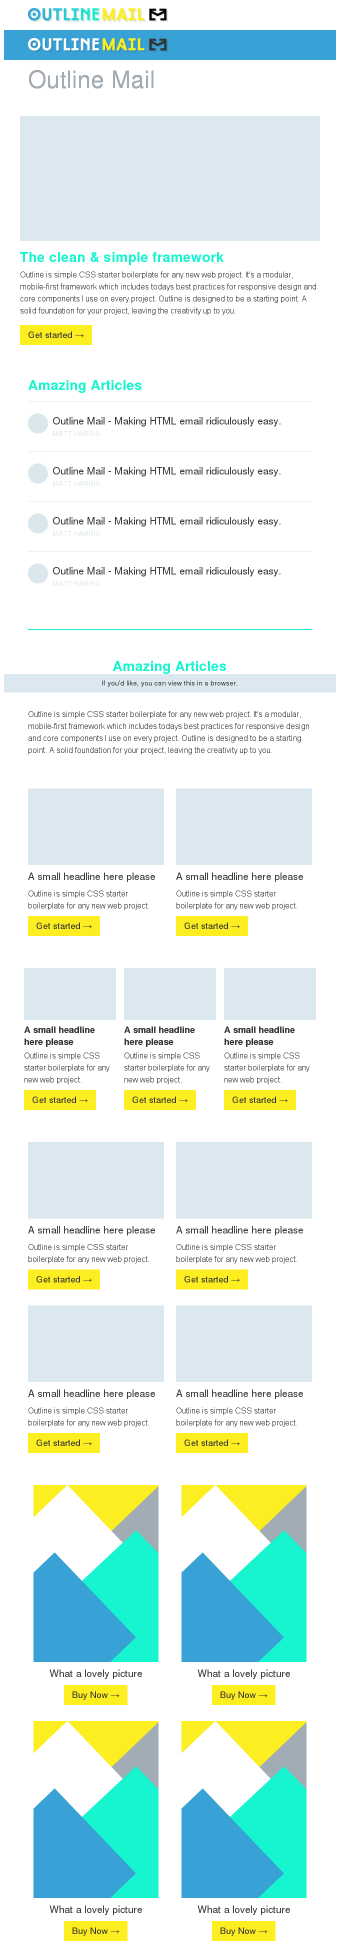
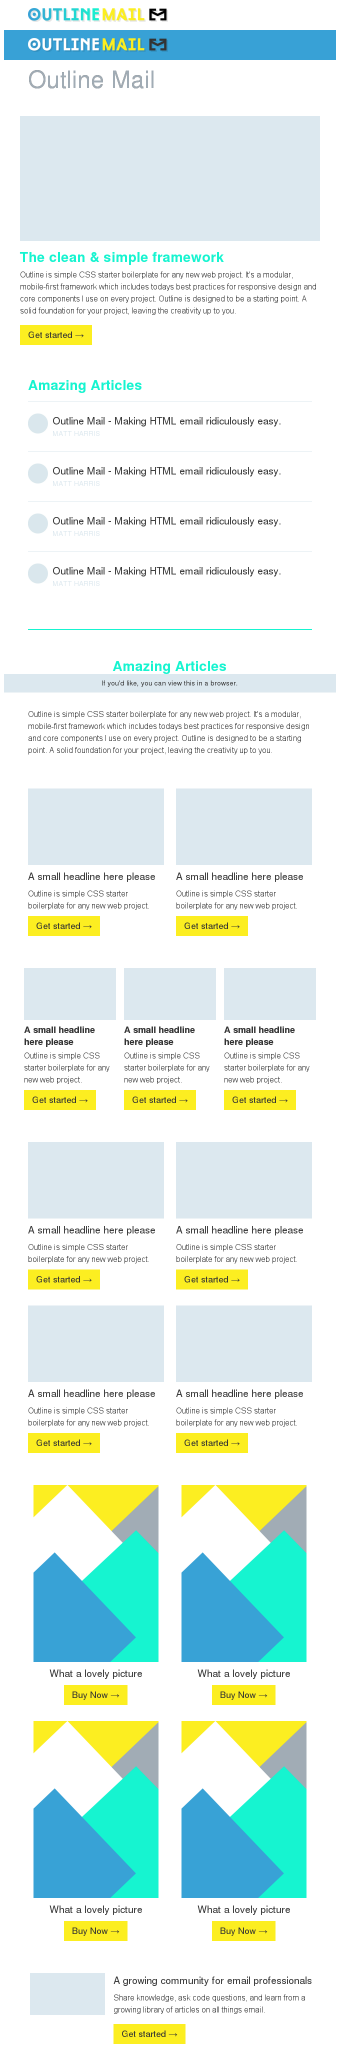
Article block

diff --git a/templates/outline/template-outline.html b/templates/outline/template-outline.html
@@ -47,13 +47,14 @@
             oneUpTextBlock col1 {label:Column 1; properties: text;}
             oneUpTextBlock {label: One column text; properties: col1;}
             twoUpTextBlock col1, twoUpTextBlock col2 {label: Column; properties: title text image button;}
-            twoUpTextBlock {label: One column text; properties: col1 col2 showTitle=true showImages=true showButtons=true align=left;}
+            twoUpTextBlock {label: Two column text; properties: col1 col2 showTitle=true showImages=true showButtons=true align=left;}
             threeUpTextBlock col1, threeUpTextBlock col2, threeUpTextBlock col3 {label: Column; properties: title text image button;}
-            threeUpTextBlock {label: One column text; properties: col1 col2 col3 showTitle=true showImages=true showButtons=true align=left;}
+            threeUpTextBlock {label: Three column text; properties: col1 col2 col3 showTitle=true showImages=true showButtons=true align=left;}
             fourUpTextBlock col1, fourUpTextBlock col2, fourUpTextBlock col3, fourUpTextBlock col4 {label: Column; properties: title text image button;}
-            fourUpTextBlock {label: One column text; properties: col1 col2 col3 col4 showTitle=true showImages=true showButtons=true align=left;}
+            fourUpTextBlock {label: Four column text; properties: col1 col2 col3 col4 showTitle=true showImages=true showButtons=true align=left;}
             galleryFourUpBlock col1, galleryFourUpBlock col2, galleryFourUpBlock col3, galleryFourUpBlock col4 {label: Column; properties: title image button;}
-            galleryFourUpBlock {label: One column text; properties: col1 col2 col3 col4 showButtons=true;}
+            galleryFourUpBlock {label: Four column text; properties: col1 col2 col3 col4 showButtons=true;}
+            articleBlock {label: One column text; properties: showButtons=true;}
         }
     </style>
 </head>
@@ -1115,7 +1116,78 @@
 </table>
 <!-- /Gallery four up centre -->
 
-
+<!-- Article -->
+<table border="0" cellpadding="0" cellspacing="0" width="100%" data-ko-block="articleBlock">
+  <tr>
+    <td style="padding: 32px 0 0 0;" bgcolor="#ffffff" align="center">
+      <table class="content-table" align="center" border="0" cellpadding="0" cellspacing="0" width="600">
+        <tr>
+          <td style="padding: 0 16px 0 16px;" align="center" valign="top">
+            <!-- Two column -->
+            <table border="0" cellpadding="0" cellspacing="0" width="100%">
+              <tr>
+                <td>
+                  <!-- content left -->
+                  <table class="content-table" border="0" cellpadding="0" cellspacing="0" width="28%" align="left">
+                    <tr>
+                      <td align="center" valign="top">
+                        <a style="-ko-attr-href: @button.url;" target="_blank">
+                          <img data-ko-editable="image.src" style="display: block; padding: 0 0 8px 0; font-family: Helvetica, Arial, sans-serif; color: #333333; font-size: 14px; width: 150px; height: 84px;" class="img-max" src="http://outlinemail.co.uk/img/16x9-img-placeholder.png" alt="Outline Mail" width="150" height="84" border="0">
+                        </a>
+                      </td>
+                    </tr>
+                  </table>
+                  <!-- /content left -->
+                  <!-- content right -->
+                  <table class="content-table" border="0" cellpadding="0" cellspacing="0" width="70%" align="right">
+                    <tr>
+                      <td valign="top">
+                        <table border="0" cellpadding="0" cellspacing="0" width="100%">
+                          <tr>
+                            <td data-ko-editable="articleTitleText" style="padding: 0 0 8px 0; color: #333333; font-family: Helvetica, Arial, sans-serif; font-size: 20px; font-weight: normal; line-height: 30px;" align="left">
+                              A growing community for email professionals
+                            </td>
+                          </tr>
+                          <tr>
+                            <td data-ko-editable="articleDescriptionText" style="padding: 0 0 16px 0; color: #333333; font-family: Helvetica, Arial, sans-serif; font-size: 16px; font-weight: normal; line-height: 24px;" align="left">
+                              Share knowledge, ask code questions, and learn from a growing library of articles on all things email.
+                            </td>
+                          </tr>
+                          <tr data-ko-display="showButtons">
+                            <td style="padding: 0 0 32px 0;">
+                              <!-- Button -->
+                              <table border="0" cellspacing="0" cellpadding="0" width="100%">
+                                <tr>
+                                  <td align="left">
+                                    <table class="mobile-button-wrap" border="0" cellspacing="0" cellpadding="0">
+                                      <tr>
+                                        <td align="center">
+                                          <a class="mobile-button" data-ko-editable="articleButtonText" style="-ko-attr-href: @button.url; background-color: #fcee21; border-top: 8px solid #fcee21; border-right: 16px solid #fcee21; border-bottom: 8px solid #fcee21; border-left: 16px solid #fcee21; display: inline-block; color: #333333; font-family: Helvetica, Arial, sans-serif; font-size: 18px; font-weight: normal; line-height: 24px; text-decoration: none;" href="http://outlinemail.co.uk" target="_blank">Get started &#8594;</a>
+                                        </td>
+                                      </tr>
+                                    </table>
+                                  </td>
+                                </tr>
+                              </table>
+                              <!-- /Button -->
+                            </td>
+                          </tr>
+                        </table>
+                      </td>
+                    </tr>
+                  </table>
+                  <!-- /content right -->
+                </td>
+              </tr>
+            </table>
+            <!-- /Two column -->
+          </td>
+        </tr>
+      </table>
+    </td>
+  </tr>
+</table>
+<!-- /Article -->
 
 </div>
 
